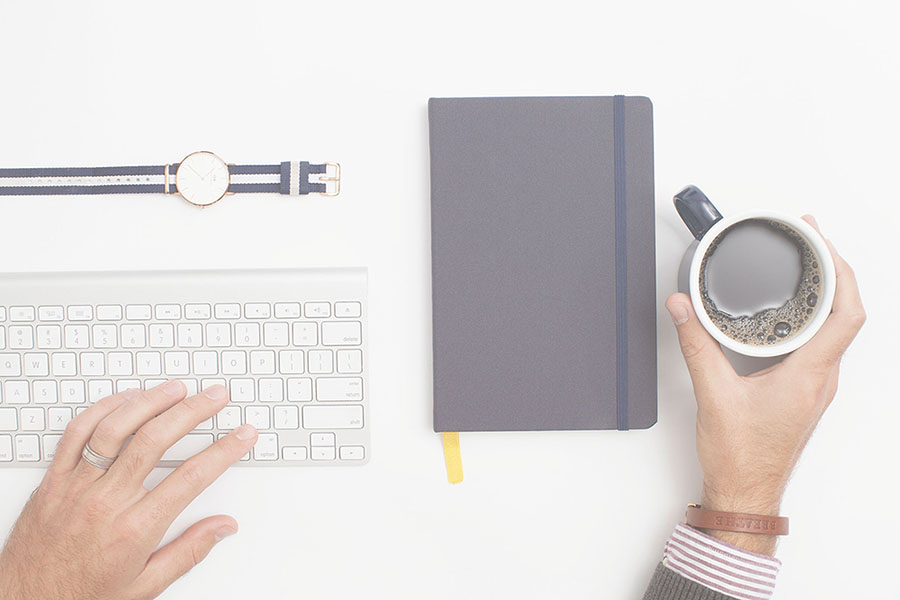
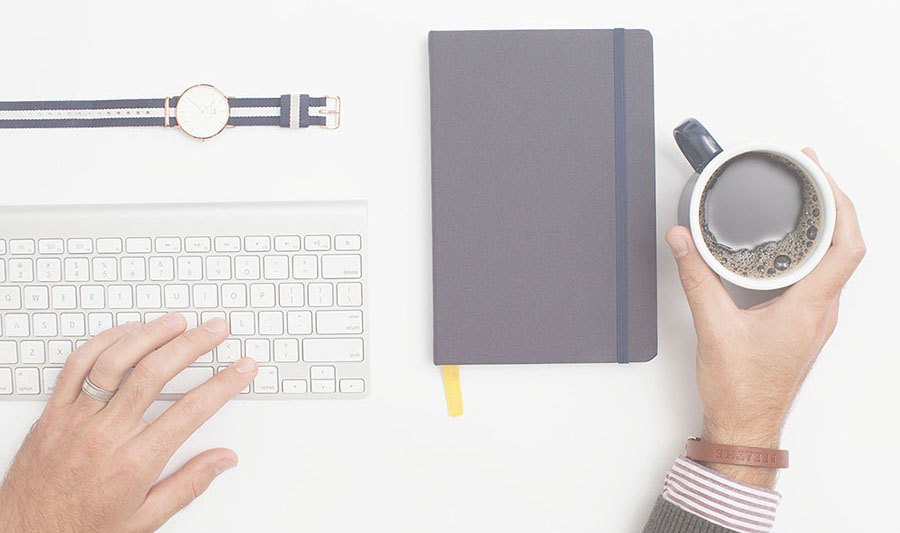
resopnsive design

diff --git a/app/assets/stylesheets/main.css.scss b/app/assets/stylesheets/main.css.scss
@@ -15,7 +15,7 @@ body {
   font-family: $body-font;
 }
 header{
-  // margin-top: -100px; 
+  // margin-top: -400px; 
 }
 a {                               // For underlining a links
   -webkit-transition: all 0.35s;
@@ -33,15 +33,15 @@ header {
   width: 100%;
   min-height: auto;
   overflow-y: hidden;
-  margin:auto;
-  padding:0;
-  background: url("cropped.jpg");
+  // margin:auto;
+  // padding:0;
+  background: url("main-bg-copy.jpg");
   /* fallback for old browsers */
-  background: url("cropped.jpg");
+  background: url("main-bg-copy.jpg");
   /* Chrome 10-25, Safari 5.1-6 */
-  background: url("cropped.jpg");
+  background: url("main-bg-copy.jpg");
   /* W3C, IE 10+/ Edge, Firefox 16+, Chrome 26+, Opera 12+, Safari 7+ */
-  background-size: contain;
+  background-size: cover;
   background-repeat: no-repeat;
 }
 header .header-content {
@@ -59,20 +59,20 @@ header .header-content .header-content-inner h1 {
   margin-bottom: 30px;
   font-size: 30px;
 }
-header .header-content .header-content-inner .list-badges {
-  margin-bottom: 25px;
-}
-header .header-content .header-content-inner .list-badges img {
-  height: 50px;
-  margin-bottom: 25px;
-}
+// header .header-content .header-content-inner .list-badges {
+//   margin-bottom: 25px;
+// }
+// header .header-content .header-content-inner .list-badges img {
+//   height: 50px;
+//   margin-bottom: 25px;
+// }
 header .device-container {
-  max-width: 300px;
+  // max-width: 300px;
   margin: 0 auto 100px;
 }
-header .device-container .screen img {
-  border-radius: 3px;
-}
+// header .device-container .screen img {
+//   border-radius: 3px;
+// }
 @media (min-width: 768px) {
   header {
     min-height: 100%;
@@ -279,7 +279,7 @@ header .device-container .screen img {
     font-weight: 600;
     color: $metas-celeste;
   }
-  li{
+  li a{
     color: #FFFAFA;
     font-size: 14px;
     font-weight: 100;
@@ -287,8 +287,12 @@ header .device-container .screen img {
     letter-spacing: 1px;
     list-style-type: none;
   }
+  li{
+    list-style-type: none;
+  }
 #social-icons-display a{
   display: inline-block;
+  padding-right: 10px;
 }
 .fb-icon{
   background-image: url(fb-icon.svg);
@@ -318,7 +322,20 @@ header .device-container .screen img {
   width: 380px;
   background-size: contain;
 }
-
+@media only screen and (max-width : 500px) {
+  #footer{
+    padding: 3em 0em 3em 0em;
+  }
+    li{
+      text-align: center;
+    }
+    h4{
+      text-align: center;
+    }
+    #social-icons-display{
+      margin-left: 4em;
+    }
+}
 // **************** NAVBARS**************** //
 
 nav {border-radius: 0 !important; }
@@ -362,8 +379,8 @@ nav {border-radius: 0 !important; }
   border-top-right-radius: 10px;
   border-bottom-right-radius: 10px;
 }
-#guestNavBar{
-  margin-top: 1em;
+#guestNavBar, #welcomeNavBar{
+  position: absolute;
 }
 #guestNavBar ul li a{ 
   font-family: 'Lato', sans-serif;
@@ -388,7 +405,7 @@ nav {border-radius: 0 !important; }
   color: $metas-celeste; 
 }
 #guestNavBar h5{
-  color: $lighter-purple;
+  color: $metas-purple;
   margin-top: 1em;
   margin-bottom: 0em;
   margin-left: 8em;
@@ -447,7 +464,7 @@ nav {border-radius: 0 !important; }
   color: $metas-celeste;
 }
 #welcomeNavBar h5{
-  color: $lighter-purple;
+  color: $metas-purple;
   margin-top: 1em;
   margin-bottom: 0em;
   position: relative;
@@ -486,8 +503,8 @@ nav {border-radius: 0 !important; }
       padding: 0px 0px;
     }
     #guestNavBar ul li:nth-child(n+4) a {
-      color: white;
-      font-size: 14px;
+      color: $metas-purple !important;
+      font-size: 1.2em;
       font-family: 'Lato', sans-serif;
       font-weight: 900;
       padding: 0.7em 0.5em 0.7em 1.3em;
@@ -500,7 +517,7 @@ nav {border-radius: 0 !important; }
     }
     #guestNavBar ul li a:hover, #welcomeNavBar ul li a:hover {
       background-color: $lighter-celeste;
-      color: $lighter-purple;
+      color: $metas-purple;
     }
     #guestNavBar ul li:nth-child(n+4)  a:hover {
       background-color: $metas-celeste ! important; 
@@ -563,7 +580,6 @@ nav {border-radius: 0 !important; }
 }
 .index-page-header-content-inner-h4{
   margin-left: 1.5em;
-  font-size: 1.4em;
   color: $lighter-purple;
   font-weight: 500;
   letter-spacing: 0.7;
@@ -589,9 +605,19 @@ input, button, select, textarea {
 }
 .form-control{
   height: 40px;
+  font-size: 17px;
 }
 input[type="submit"].btn-block, input[type="reset"].btn-block, input[type="button"].btn-block {
     font-style: normal;
+}
+.checkbox > label{
+  color: $metas-purple;
+}
+.checkbox > label > span {
+  text-decoration: underline;
+}
+.signup-form, .login-form{
+  margin-left: 1.5em;
 }
 
 // .jobs-page p{

diff --git a/app/assets/javascripts/application.js b/app/assets/javascripts/application.js
@@ -15,3 +15,6 @@
 //= require turbolinks
 //= require bootstrap-sprockets
 //= require_tree .
+
+
+
